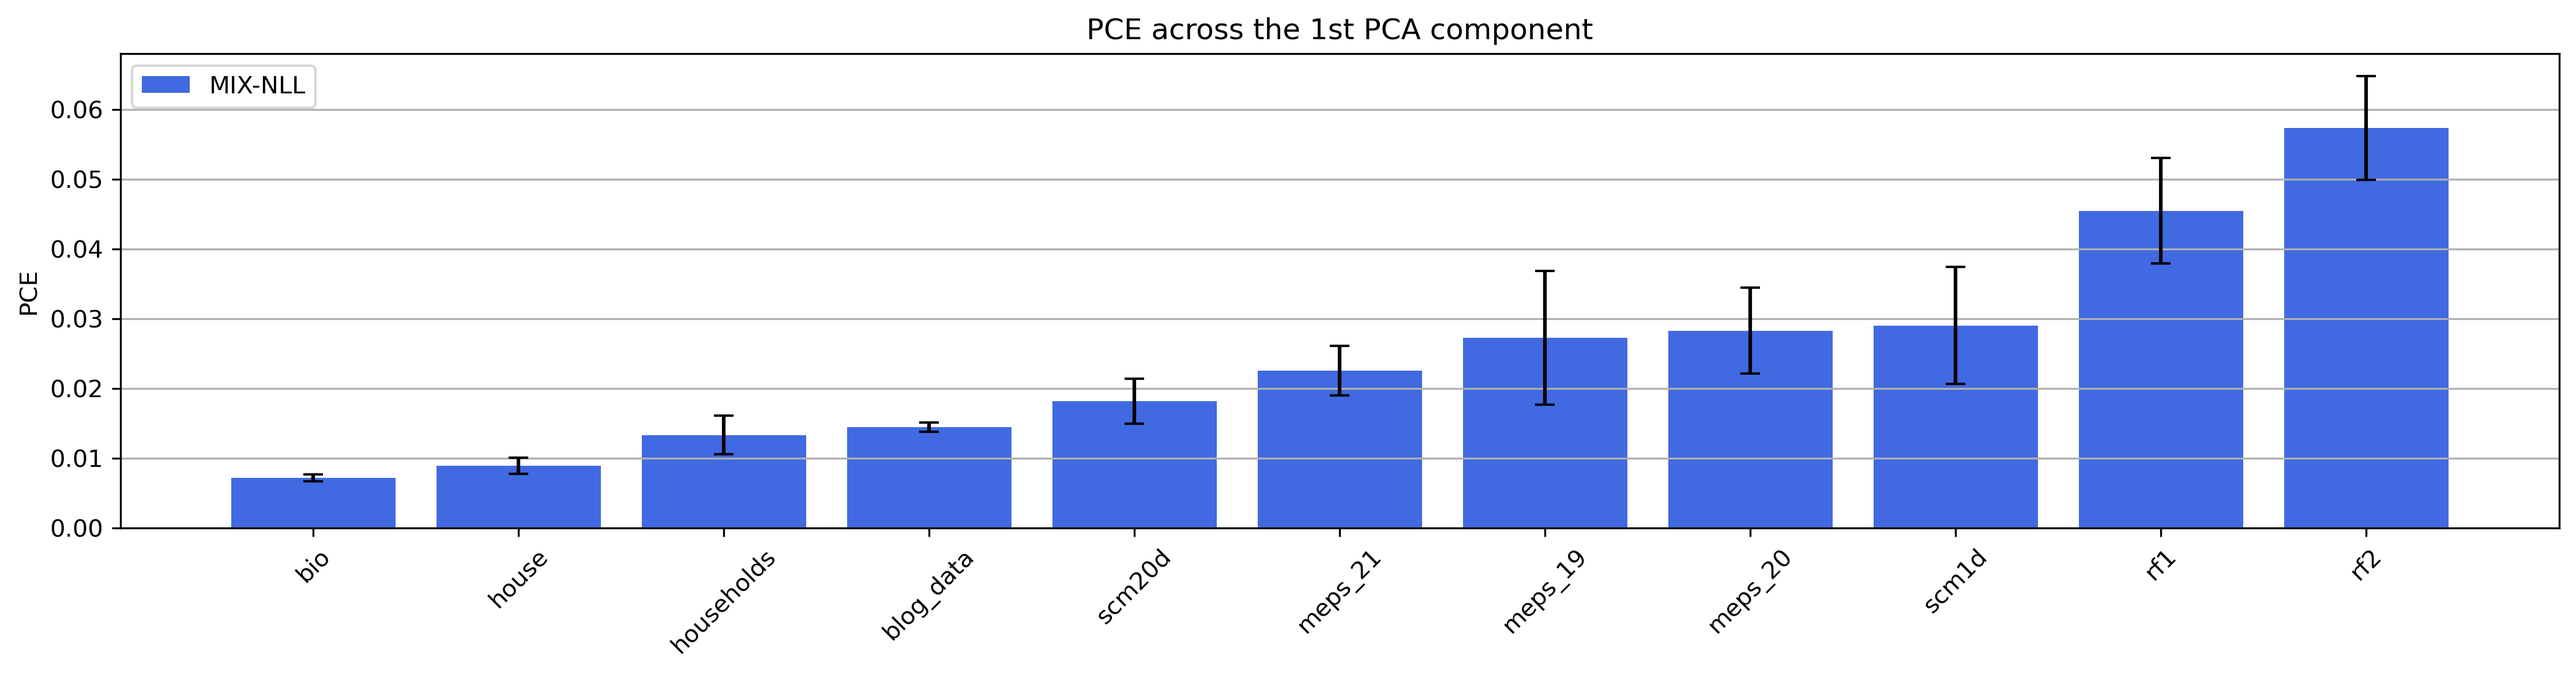
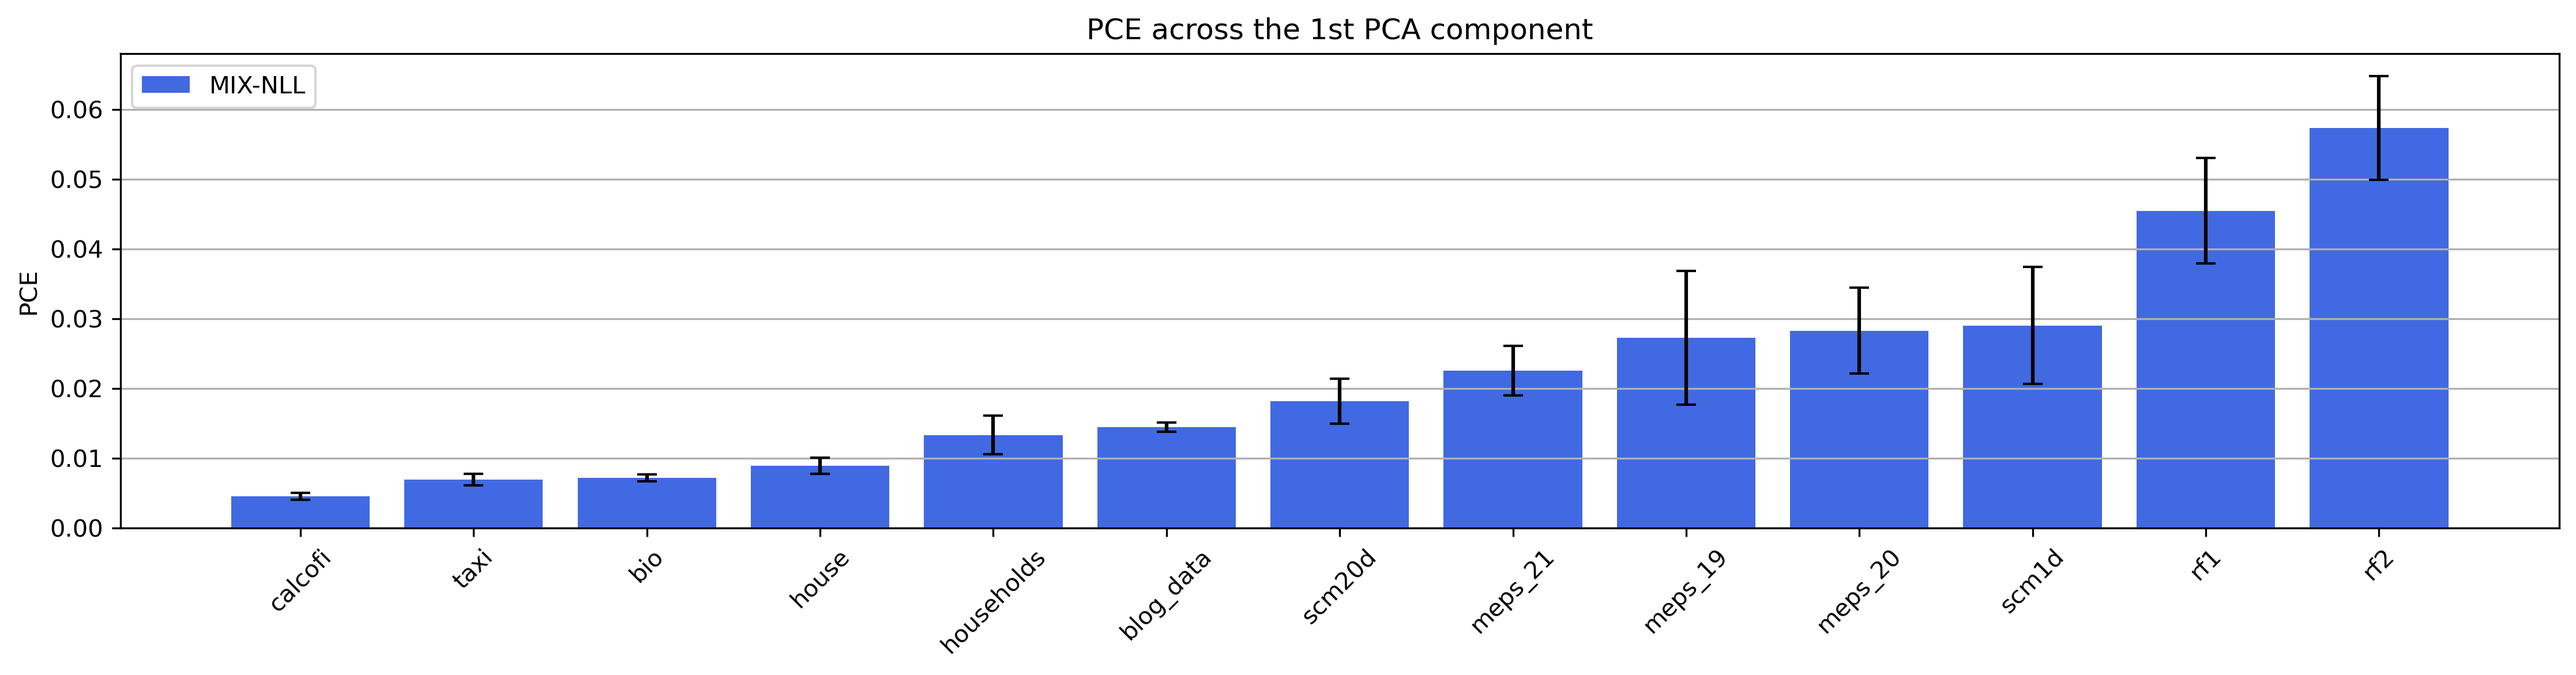
adding experiments with the rem two datasets

diff --git a/Multicalibration/Projected_PIT_calibration/moc/models/trainers/lightning_trainer.py b/Multicalibration/Projected_PIT_calibration/moc/models/trainers/lightning_trainer.py
@@ -35,7 +35,7 @@ def get_lightning_trainer(rc):
         mode='min',
         save_top_k=1,  # save k best models (determined by above metric)
         save_last=False,  # save model from last epoch
-        verbose=False,
+        verbose=True,
         dirpath=str(rc.checkpoints_path),
         filename='epoch_{epoch:04d}',
         auto_insert_metric_name=False,
@@ -46,6 +46,7 @@ def get_lightning_trainer(rc):
         mode='min',
         patience=15,
         min_delta=1e-4 ,
+        verbose = True,
     )
 
     callbacks = [ckpt, es, CustomLogger()]
@@ -63,7 +64,7 @@ def get_lightning_trainer(rc):
         # number of validation steps to execute at the beginning of the training
         num_sanity_val_steps=0,
         log_every_n_steps=1,
-        check_val_every_n_epoch=2,
+        check_val_every_n_epoch=1,
         enable_model_summary=False,
         enable_progress_bar=False,
         callbacks=callbacks,

diff --git a/Multicalibration/Projected_PIT_calibration/moc/models/mixture/mixture_model.py b/Multicalibration/Projected_PIT_calibration/moc/models/mixture/mixture_model.py
@@ -130,7 +130,6 @@ class MixtureLightningModule(LightningModule):
         x, y = batch
         dist = self(x)
         loss = self.compute_loss(dist, y)
-        #print('Loss:', loss, flush=True)
         return loss
 
     def training_step(self, batch, batch_idx):
